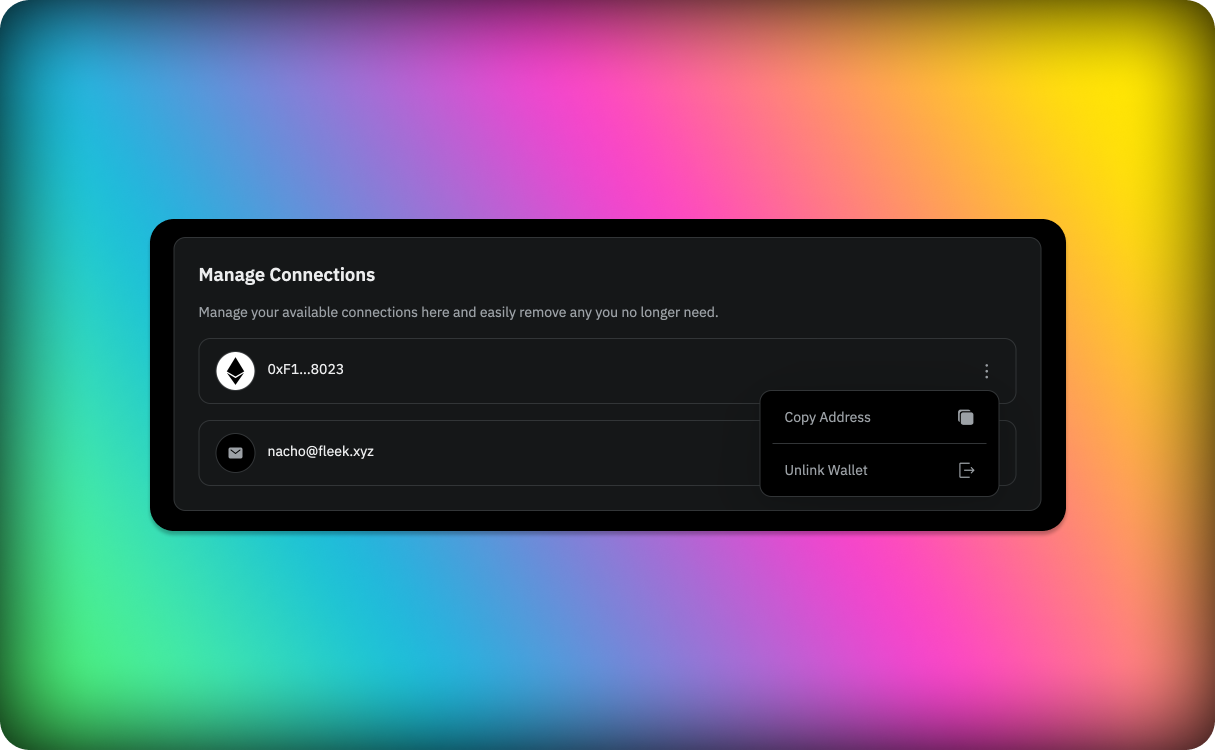
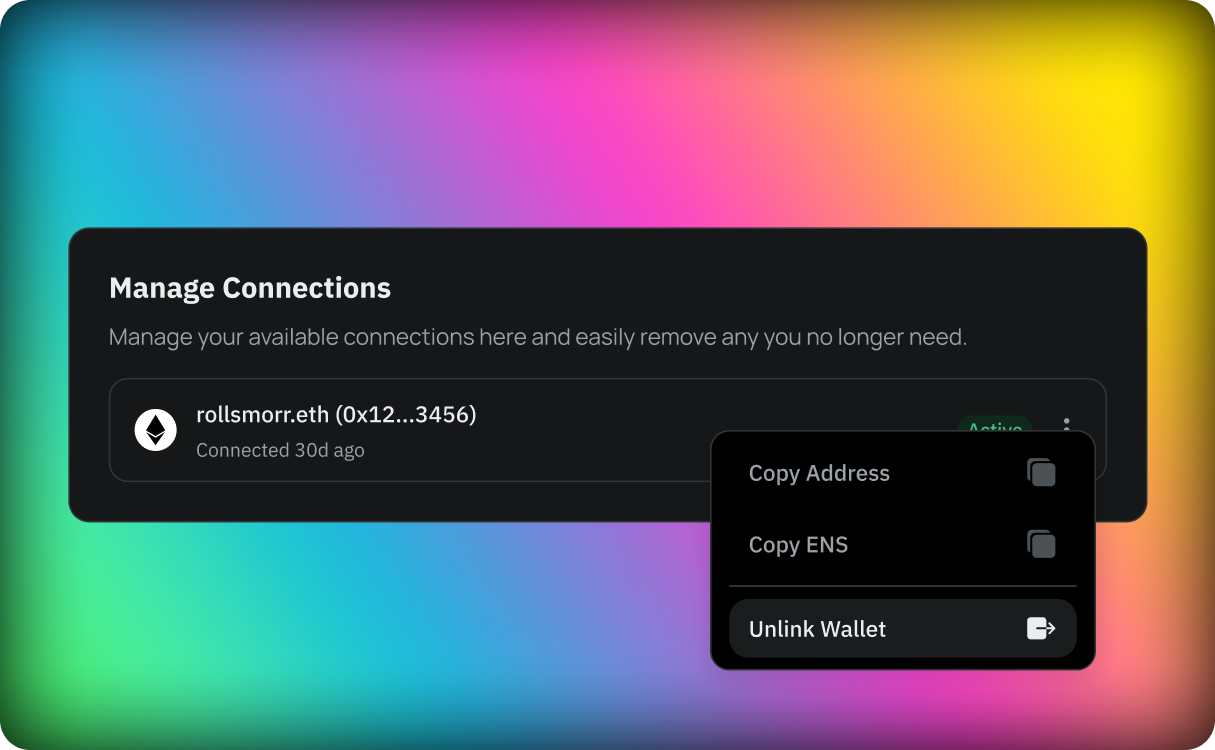
update images

Changed region(s): [[0.0305, 0.276, 0.944, 0.92], [0.6091, 0.6133, 0.7309, 0.644]]

diff --git a/docs/Accounts/login-connections.md b/docs/Accounts/login-connections.md
@@ -50,6 +50,8 @@ If you decide to unlink your wallet, you can do so by:
 
 #### Adding an Email to a Wallet-Created Account
 
+![](../images/login-connections-5.png)
+
 If you created your account using an Ethereum wallet also have the option to add an email address. This can be done by:
 
 1. Go to the 'Log In Connections' section of the account settings.
